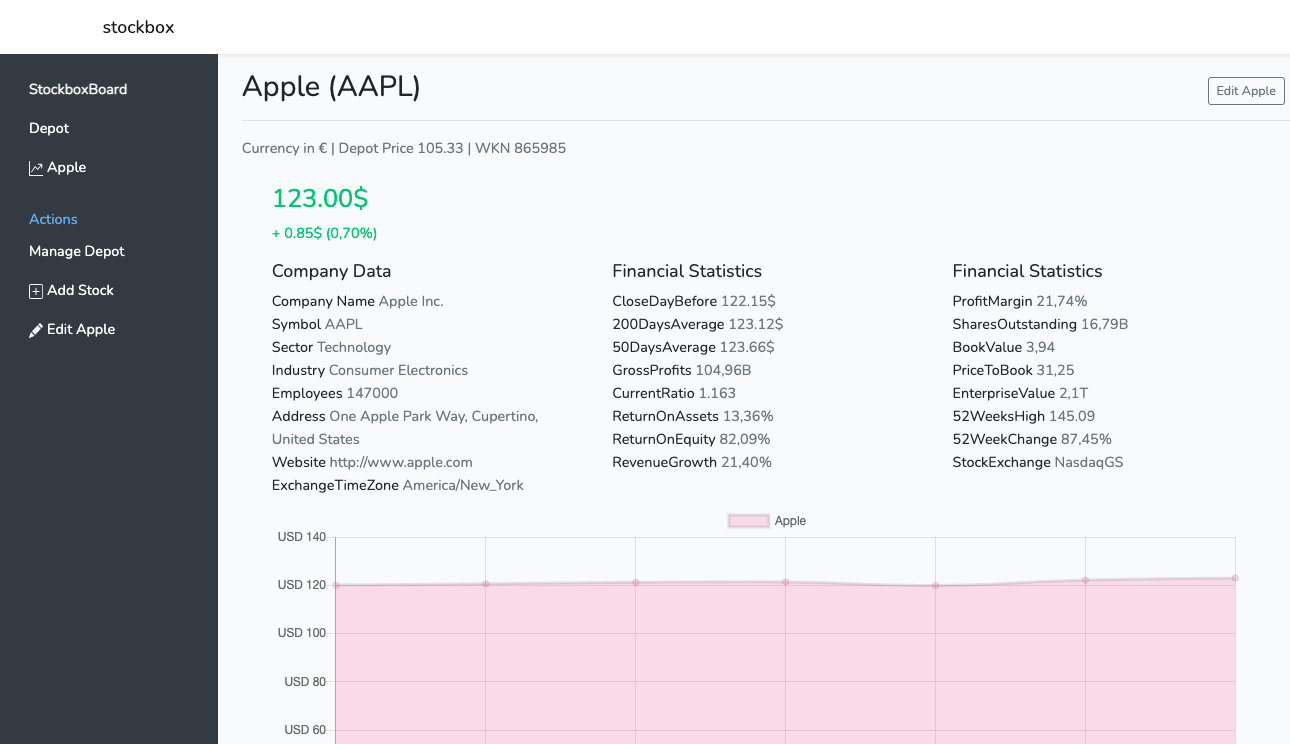
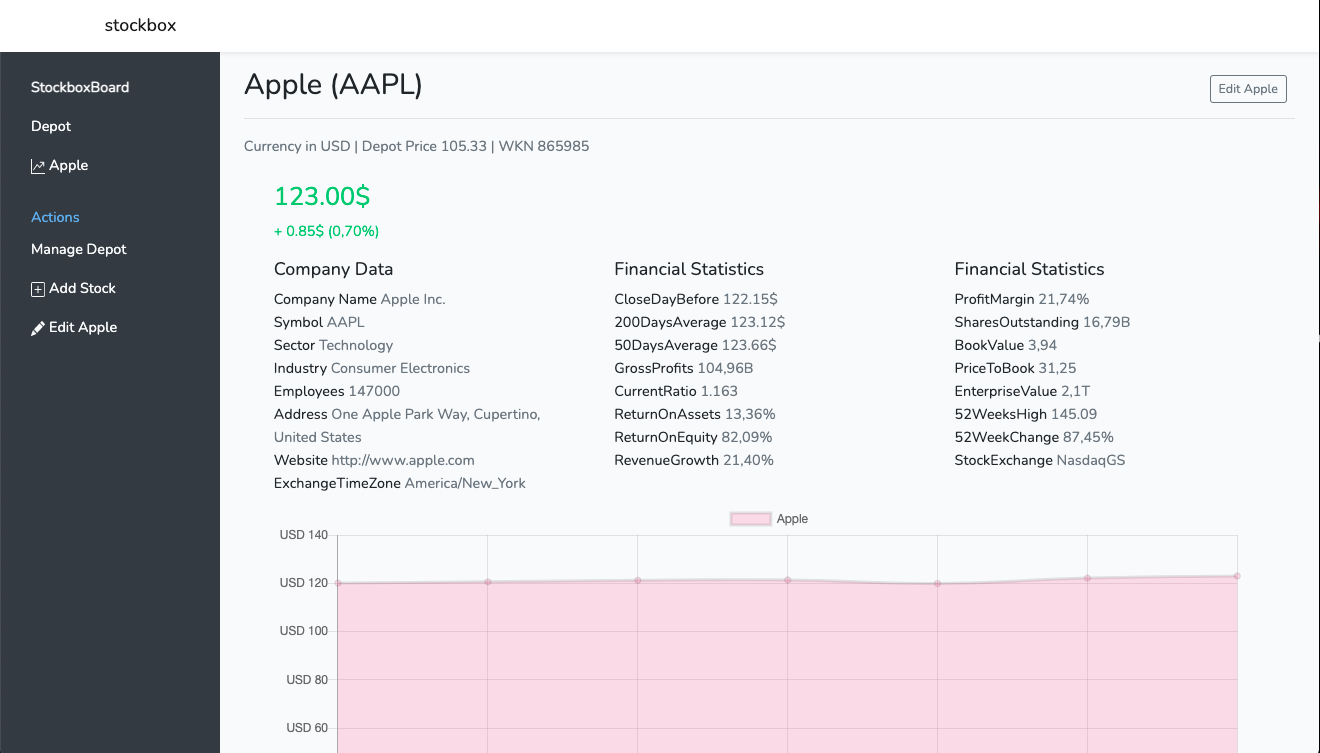
#ADD new GUI screen #CHANGE dynamic currency output for stock overview

diff --git a/resources/views/components/stock/show.blade.php b/resources/views/components/stock/show.blade.php
@@ -16,7 +16,7 @@
     </div>
 
     <div class="pb-2 text-secondary">
-        Currency in {{ $stock->pivot->buy_currency }} |
+        Currency in USD |
         Depot Price {{ $stock->pivot->buy_price }} |
         WKN {{ $stock->wkn_number }}
     </div>
